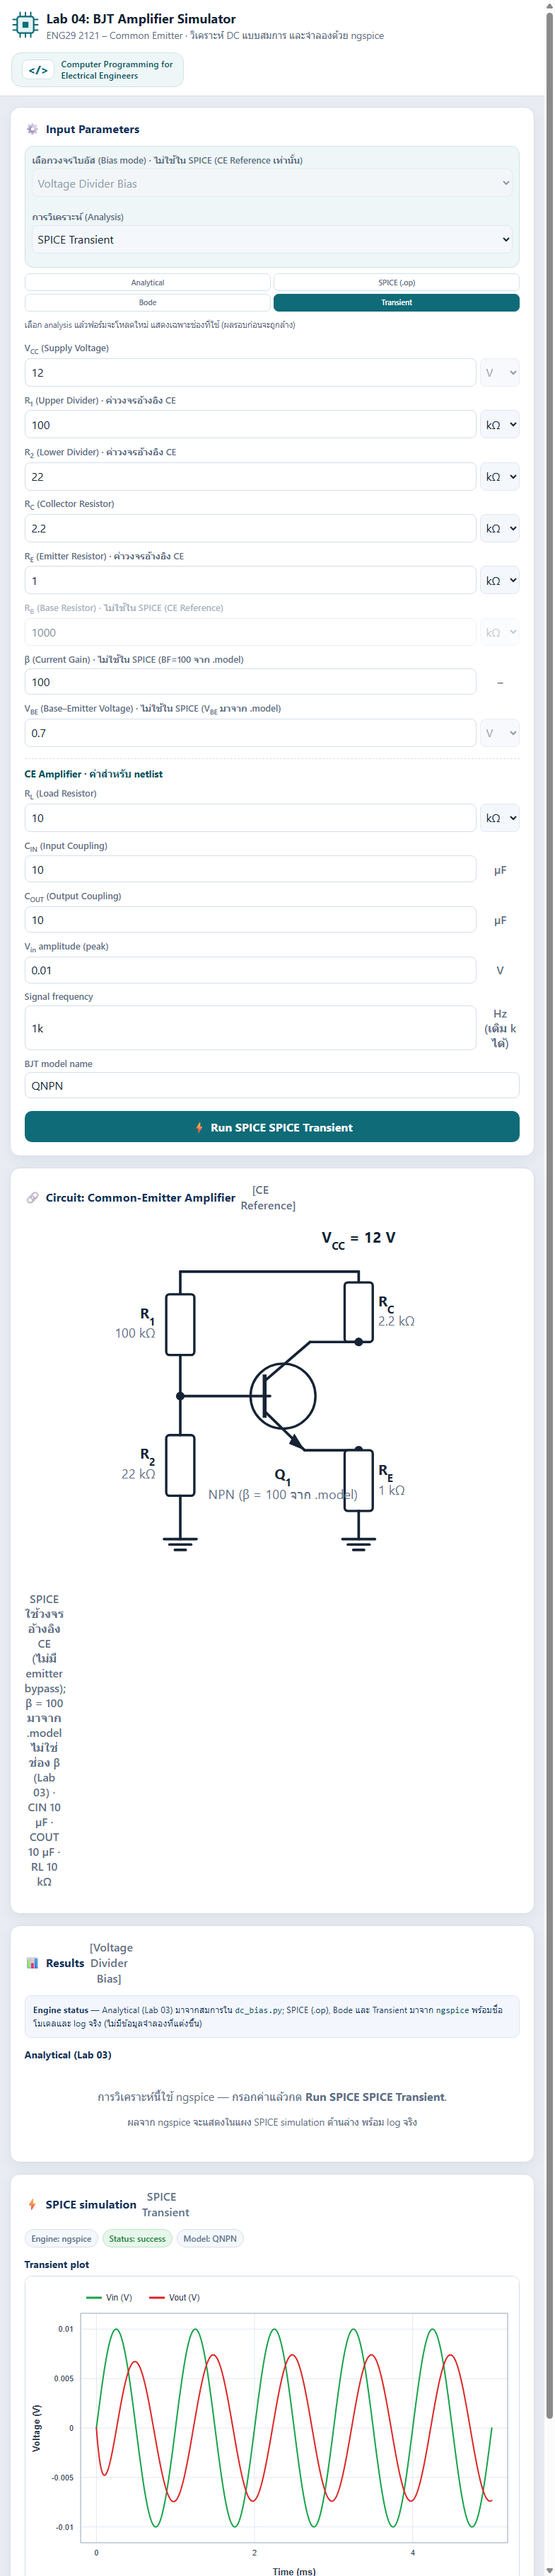
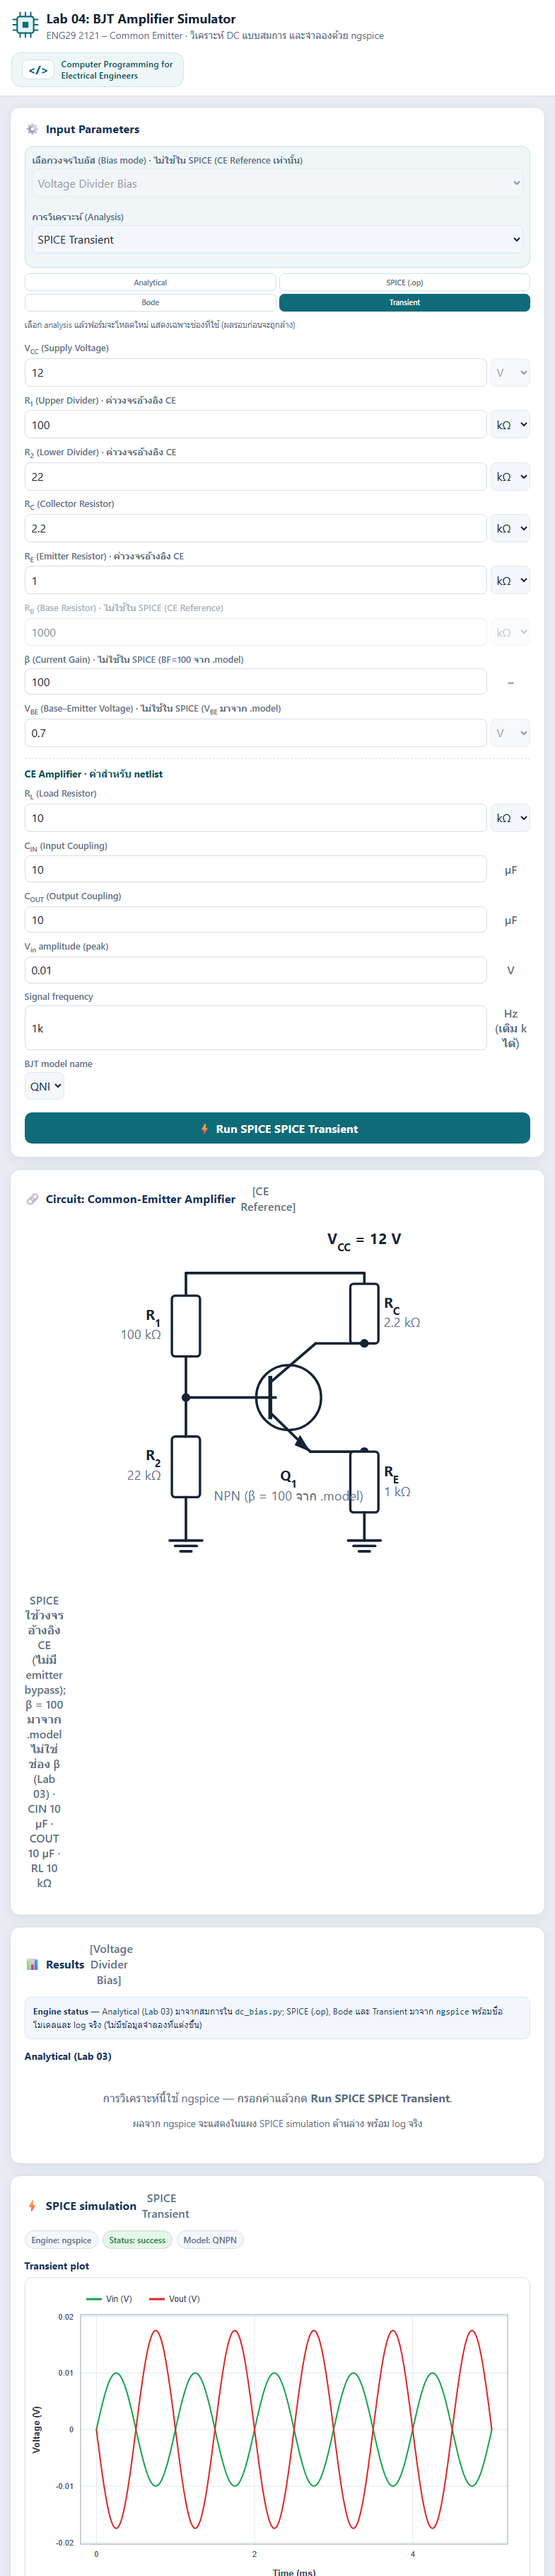
chore(lab04): refresh B5 capture and document screenshot helper

diff --git a/transistor-simulator/static/_capture.html b/transistor-simulator/static/_capture.html
@@ -1,0 +1,48 @@
+<!doctype html>
+<html lang="th">
+<head>
+  <meta charset="utf-8">
+  <title>capture helper</title>
+  <style>
+    html, body { margin: 0; padding: 0; background: #fff; }
+    iframe { display: block; border: 0; }
+  </style>
+</head>
+<body>
+  <iframe id="f" title="capture target"></iframe>
+  <script>
+    const params = new URLSearchParams(location.search);
+    const analysis = params.get('analysis') || 'spice_tran';
+    const amp = params.get('amp') || '0.01';
+    const w = Number(params.get('w') || 785);
+    const h = Number(params.get('h') || 1200);
+    const frame = document.getElementById('f');
+    frame.style.width = w + 'px';
+    frame.style.height = h + 'px';
+    frame.src = '/?analysis=' + encodeURIComponent(analysis);
+
+    frame.addEventListener('load', () => {
+      const doc = frame.contentDocument;
+      if (!doc || doc.querySelector('.chart svg')) { return; }
+      const form = doc.querySelector('form[method="post"]');
+      if (!form) { return; }
+      const set = (name, value) => {
+        const el = form.querySelector('[name="' + name + '"]');
+        if (el) { el.value = value; }
+      };
+      set('analysis', analysis);
+      set('vcc', '12');
+      set('r1', '100'); set('r1_unit', 'kohm');
+      set('r2', '22'); set('r2_unit', 'kohm');
+      set('rc', '2.2'); set('rc_unit', 'kohm');
+      set('re', '1'); set('re_unit', 'kohm');
+      set('rl', '10'); set('rl_unit', 'kohm');
+      set('cin', '10'); set('cout', '10');
+      set('amp', amp);
+      set('freq', '1k');
+      set('bjt_model', 'QNPN');
+      form.requestSubmit();
+    });
+  </script>
+</body>
+</html>

diff --git a/transistor-simulator/docs/captures/README.md b/transistor-simulator/docs/captures/README.md
@@ -11,5 +11,8 @@
 | `b8-desktop-bode.png` | 1280×900 | B8 · Desktop GET/selector view | Chrome headless `--window-size=1280,900` |
 | `b8-mobile-bode.png` | 390×844 | B8 · Phone-width GET/selector view | Chrome headless `--window-size=390,844` |
 
+วิธีโพสต์ฟอร์มจริงผ่าน iframe ใช้ [`static/_capture.html`](../../static/_capture.html)
+(helper เฉพาะสำหรับเก็บภาพ ไม่ได้ให้บริการใน UI ปกติ)
+
 ค่าตัวเลข/กราฟที่ใช้ตัดสิน B1–B8 อ่านจาก DOM และ ngspice log ใน
 [`../validation.md`](../validation.md) ไม่ได้ใช้ screenshot เป็นหลักฐานตัวเลขเพียงอย่างเดียว
